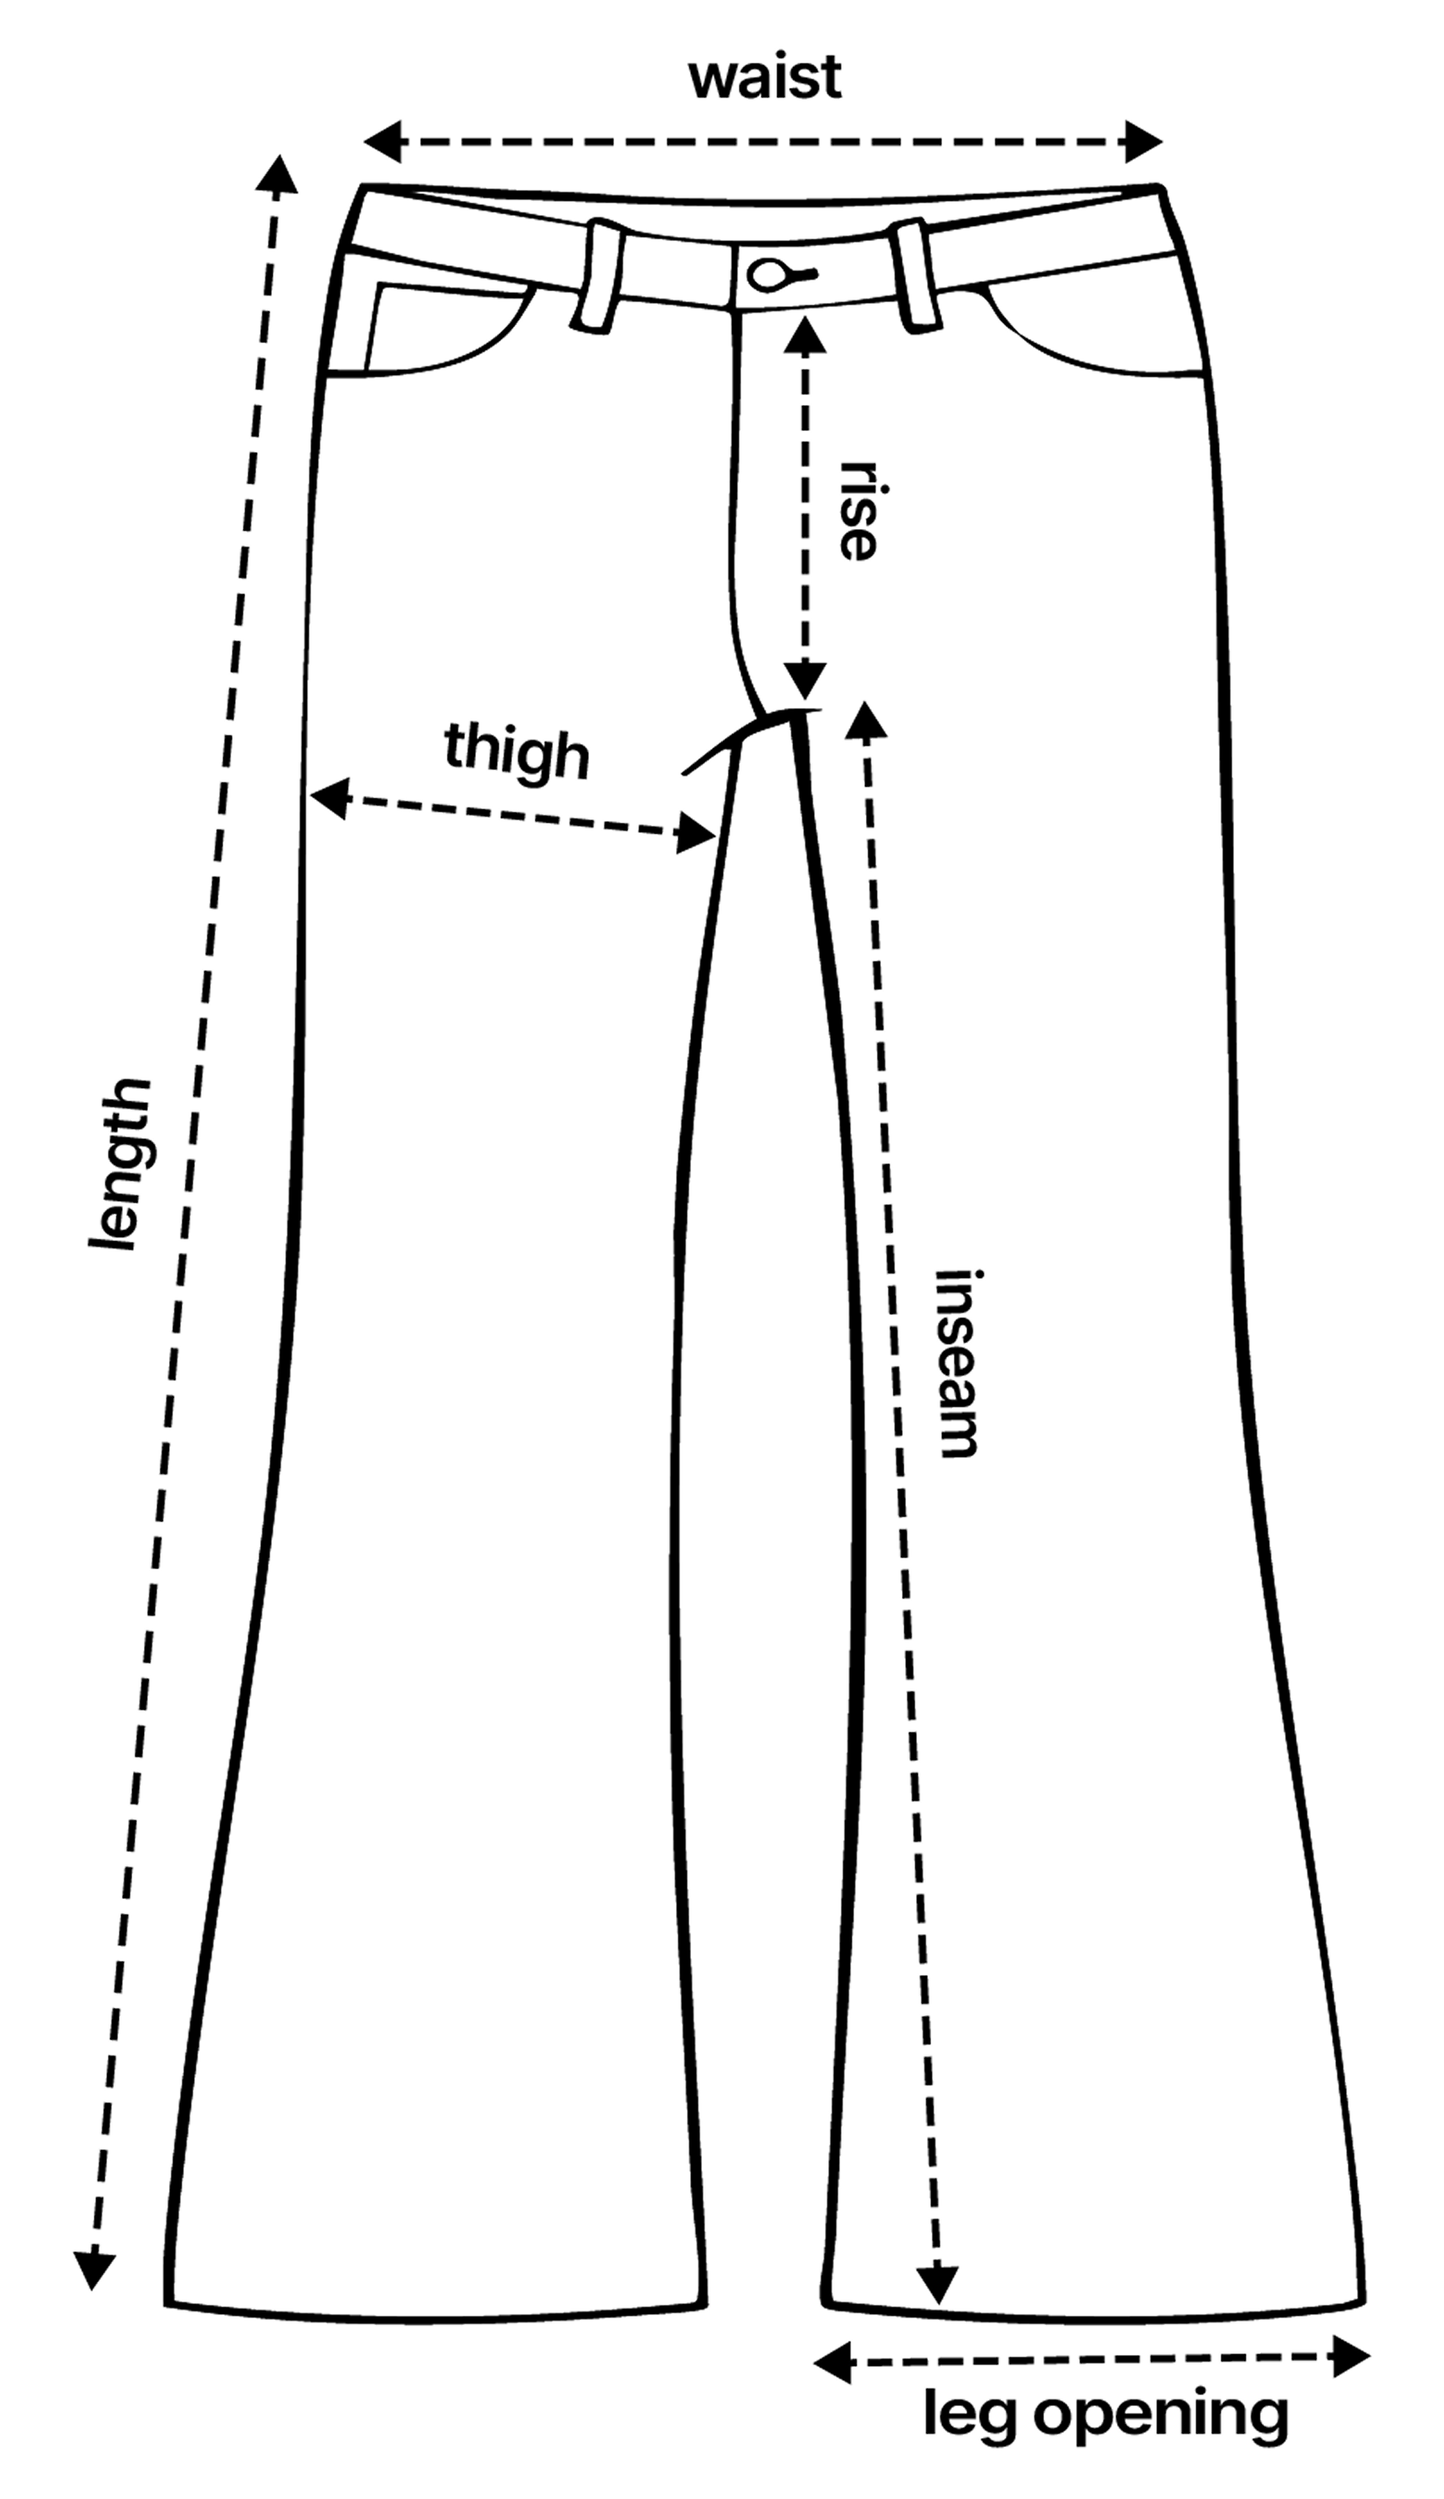
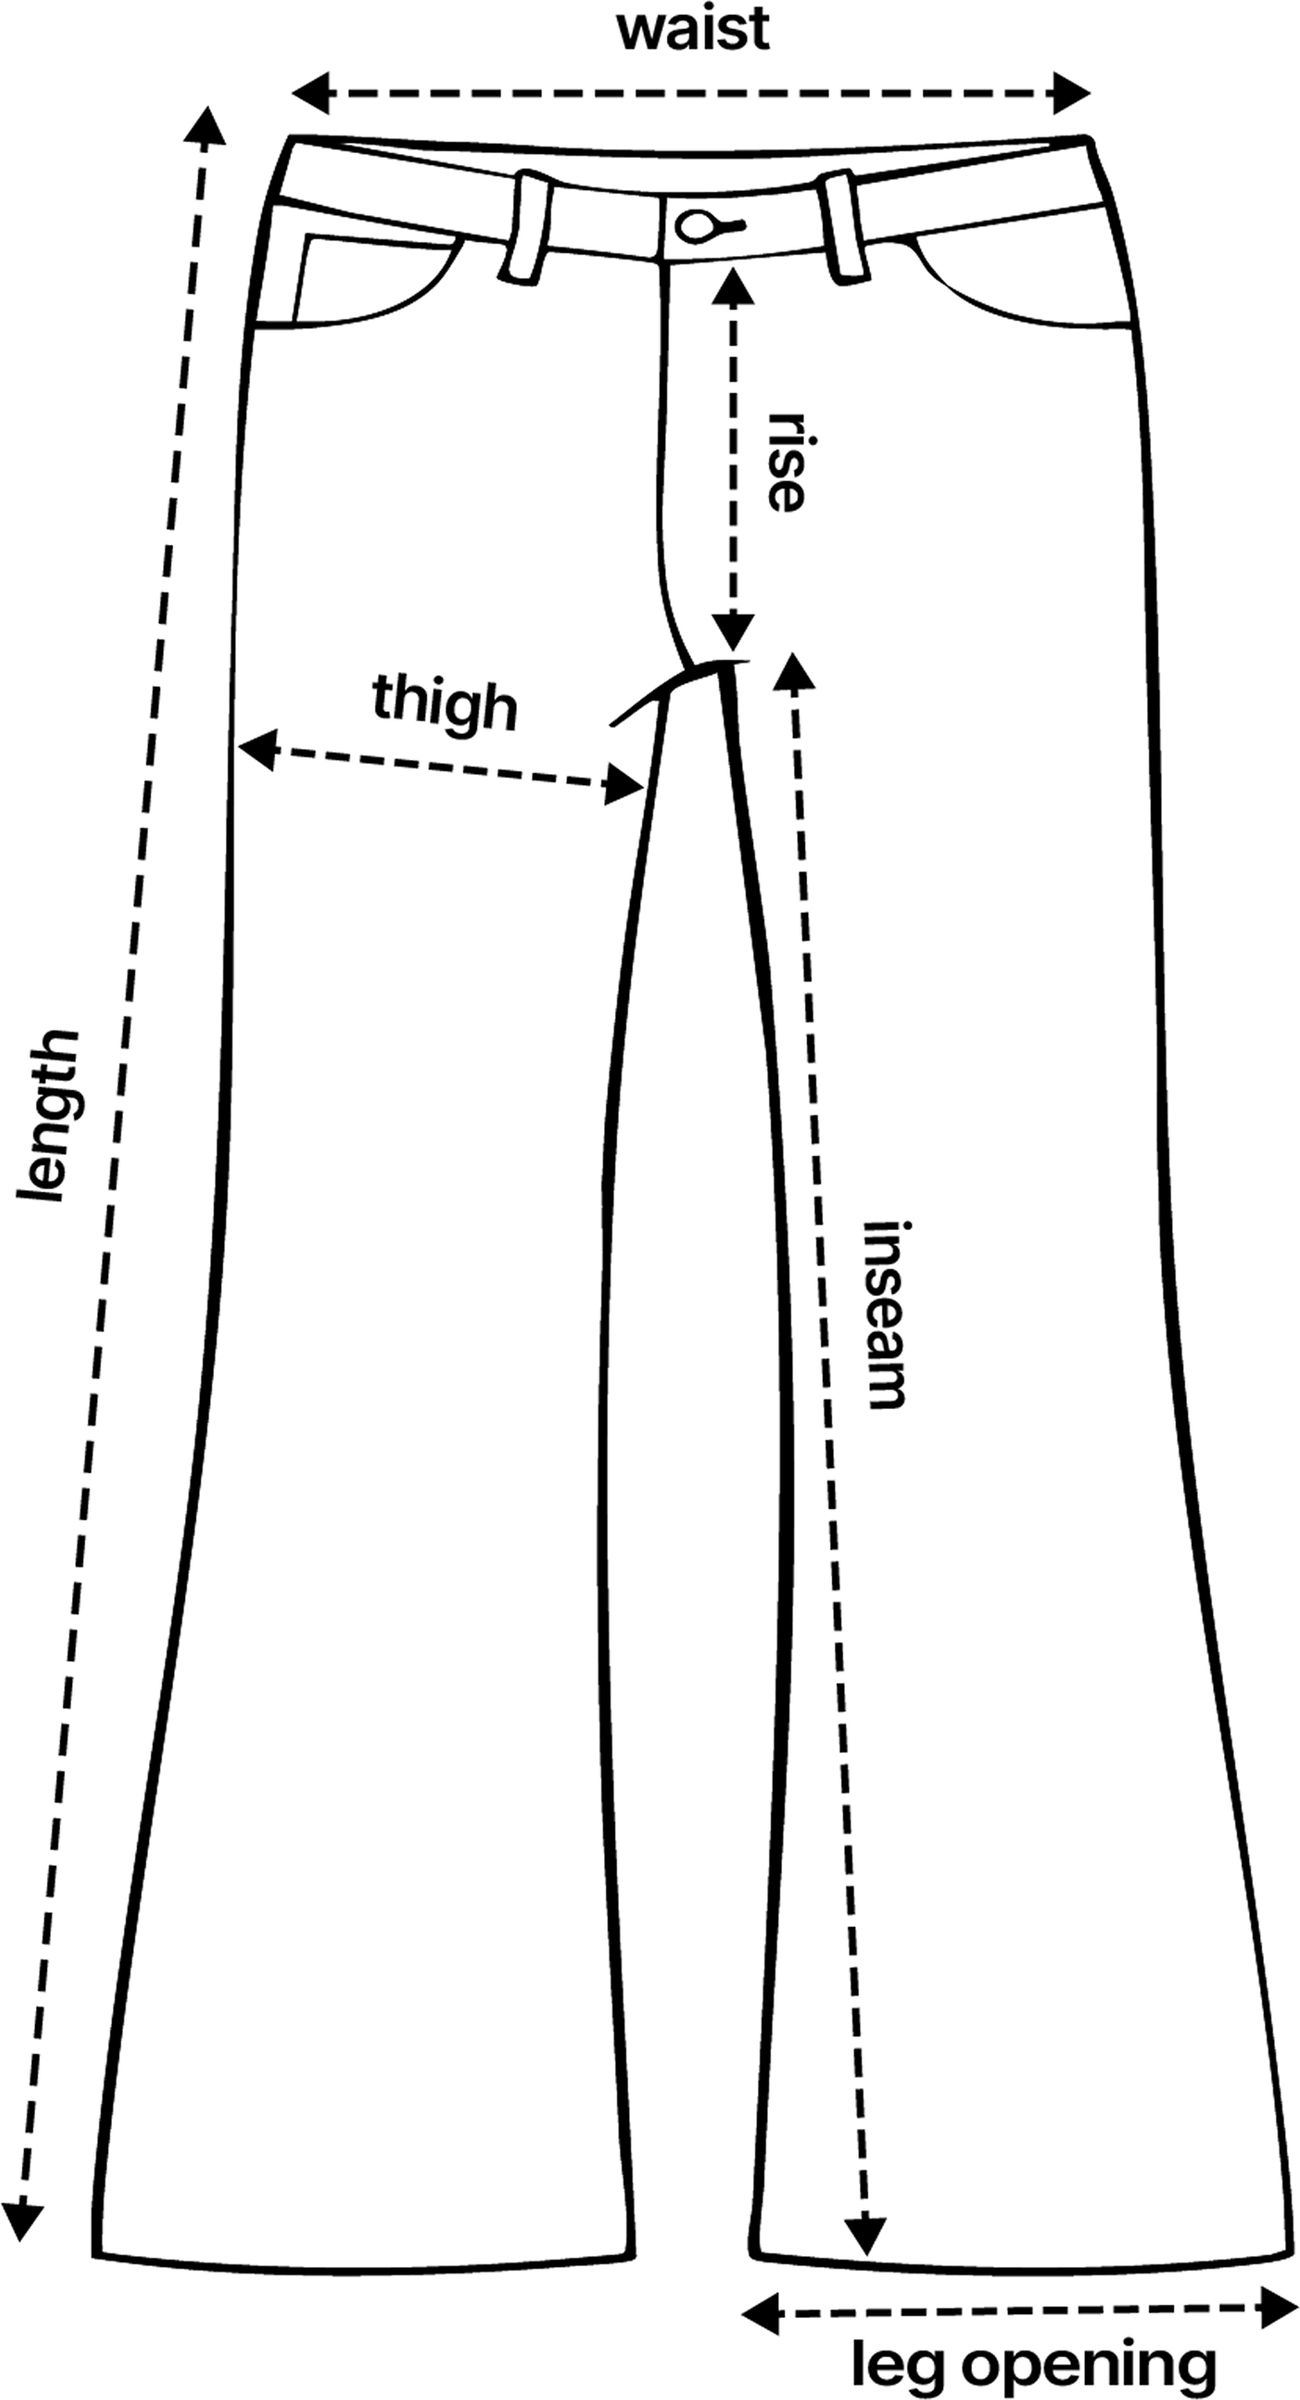
Make the size guide gap identical on every product
The drawings still carried unequal blank margins inside their files (about
9px on the raglan, almost none on the zip hoodie or polka dot), so the
visual gap differed by product. Crop every PNG tight to the ink and move
the raglan's approved spacing into CSS: 31px table-to-drawing, 39px
drawing-to-button, on all products. Box heights are reduced by the margin
that was removed so the drawings render at the same size as before.

Claude-Session: https://claude.ai/code/session_01AZdRv5QnP4SbEnETMDyFZ4

Changed region(s): [[0.0, 0.0, 1.0, 1.0]]

diff --git a/app/styles/app.css b/app/styles/app.css
@@ -2615,26 +2615,30 @@ aside main {
   fill: #000;
 }
 
-/* Measurement diagram under the size table. The diagrams are trimmed to
-   their drawing (no baked-in whitespace) and rendered at a fixed height, with
-   the same gap above the diagram as below it: 1.5rem from the table, and
-   0.5rem here plus the 1rem the add-to-cart form pads on top, then nudged
-   2px upward (less on top, more below) at Ellen's request.
+/* Measurement diagram under the size table. The PNGs are cropped tight to
+   the drawing (zero blank canvas), so these margins are the exact visual
+   gap on every product: 31px from the table to the top of the drawing and
+   39px from its bottom to the add-to-cart button (this margin, plus the
+   1rem the add-to-cart form pads on top, plus the details' own spacing).
+   The numbers were tuned by eye on the raglan tee.
 
    The height depends on the drawing's shape (class set from the image's
    aspect ratio once it loads): a tall drawing like pants gets more height
    than a wide one like a tee, so the garments read as roughly the same size
    instead of pants shrinking to half a tee's width. */
 .product-size-guide-photo {
-  margin-top: calc(1.5rem - 2px);
-  margin-bottom: calc(0.5rem + 2px);
+  margin-top: 31px;
+  margin-bottom: 19px;
   width: 100%;
   text-align: center;
 }
 
+/* Heights are the drawing itself (files have no margin). They match what
+   the reference product of each shape rendered at before the tight crop:
+   raglan tee (wide), MHZ zip hoodie (square), velour track pants (tall). */
 .product-size-guide-photo img {
   width: auto;
-  height: 280px;
+  height: 276px;
   max-width: 100%;
   display: block;
   margin: 0 auto;
@@ -2642,24 +2646,24 @@ aside main {
 }
 
 .product-size-guide-photo--wide img {
-  height: 240px;
+  height: 222px;
 }
 
 .product-size-guide-photo--tall img {
-  height: 330px;
+  height: 313px;
 }
 
 @media (max-width: 45em) {
   .product-size-guide-photo img {
-    height: 240px;
+    height: 236px;
   }
 
   .product-size-guide-photo--wide img {
-    height: 200px;
+    height: 185px;
   }
 
   .product-size-guide-photo--tall img {
-    height: 280px;
+    height: 266px;
   }
 }
 
